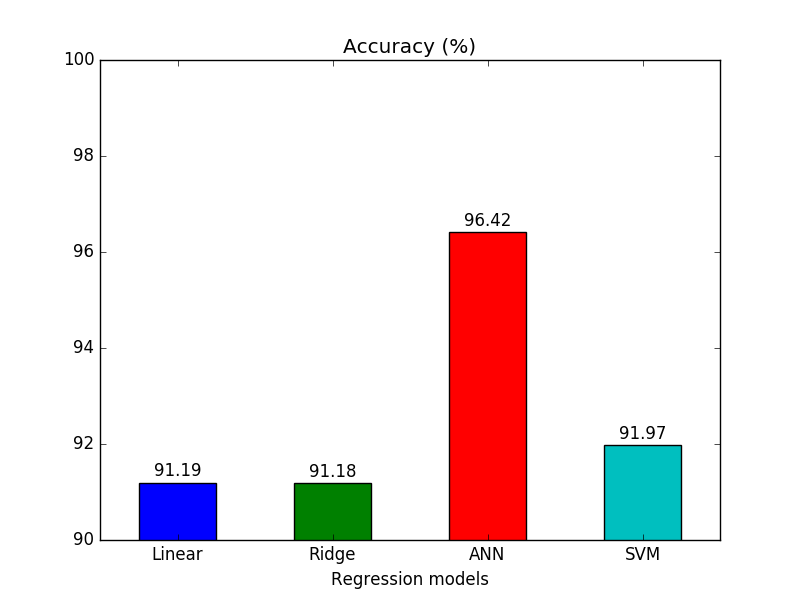
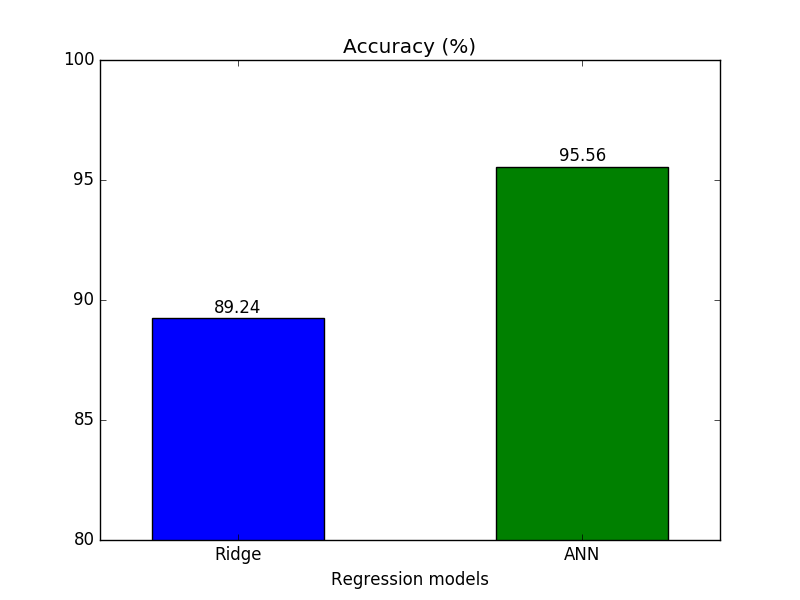
main.py: Add cross validation

diff --git a/main.py b/main.py
@@ -7,9 +7,12 @@ import pandas as pd
 from itertools import cycle
 from scipy.stats import spearmanr
 from sklearn.model_selection import train_test_split
-from sklearn import linear_model, svm
+from sklearn import linear_model
 from sklearn.neural_network import MLPRegressor
 from sklearn.preprocessing import StandardScaler
+from sklearn.model_selection import KFold
+from sklearn.model_selection import cross_val_score
+
 
 
 class Data(object):
@@ -17,8 +20,8 @@ class Data(object):
         Class for pre-processing data.
     """
     def __init__(self, filename="data.csv", cold=0):
-        self.label = ["Relative Compactness", "Surface Area", "Wall Area", "Roof Area",
-                      "Overall Height", "Orientation", "Glazing Area",
+        self.label = ["Rel Compactness", "Surface Area", "Wall Area", "Roof Area",
+                      "Overall Ht.", "Orientation", "Glazing Area",
                       "Glazing Area Distribution", "Heating Load", "Cooling Load"]
         self.data = pd.read_csv(filename)
         self.cold = cold
@@ -26,7 +29,7 @@ class Data(object):
         scaler = StandardScaler()
         self.X_train, self.X_test, self.y_train, self.y_test = train_test_split(X,
                                                                                 y,
-                                                                                test_size=0.2,
+                                                                                test_size=0.3,
                                                                                 random_state=0)
         scaler.fit(self.X_train)
         self.X_train = scaler.transform(self.X_train)
@@ -34,51 +37,82 @@ class Data(object):
     
     def get_sp_rank(self):
         """
-            Return Spearman rank correlation coefficient.
+            Return Spearman rank-order correlation coefficient and p-value
+            to test for non-correlation.
         """
         
         return [(spearmanr(self.data.ix[:, i:i+1], self.data.ix[:, 8:9]),
                  spearmanr(self.data.ix[:, i:i+1], self.data.ix[:, 9:10]))
                  for i in range(len(self.label)-2)]
+
+
+
+def cross_validator(func):
+    def inner_wrap(self, data):
+        est, est_cv = func()
+        X = data.ix[:,0:8].as_matrix()
+        y = data.ix[:,8:10].as_matrix()
+        alphas = np.logspace(-4, -0.5, 30)
+        scores = []
+        scores_std = []
+        n_folds = 5
+
+        for alpha in alphas:
+            est.alpha = alpha
+            this_scores = cross_val_score(est, X, y, cv=n_folds, n_jobs=1)
+            scores.append(np.mean(this_scores))
+            scores_std.append(np.std(this_scores))
+
+        scores, scores_std = np.array(scores), np.array(scores_std)
+
+        plt.figure().set_size_inches(8, 6)
+        plt.semilogx(alphas, scores)
+
+        std_error = scores_std / np.sqrt(n_folds)
+
+        plt.semilogx(alphas, scores + std_error, 'b--')
+        plt.semilogx(alphas, scores - std_error, 'b--')
+
+        plt.fill_between(alphas, scores + std_error, scores - std_error, alpha=0.2)
+
+        plt.ylabel('CV score +/- std error')
+        plt.xlabel('alpha')
+        plt.axhline(np.max(scores), linestyle='--', color='.5')
+        plt.xlim([alphas[0], alphas[-1]])
+
+        est_cv.alphas = alphas
+        est_cv.random_state = 0
+        k_fold = KFold(n_folds)
+
+        scores = []
+        for k, (train, test) in enumerate(k_fold.split(X, y)):
+            est_cv.fit(data.ix[train, 0:8].as_matrix(), data.ix[train, 8+self.cold: 9+self.cold].as_matrix())
+            scores.append(est_cv.score(data.ix[test, 0:8].as_matrix(),
+                                       data.ix[test, 8+self.cold: 9+self.cold].as_matrix()))
+
+        plt.show()
+        return np.mean(scores)*100
     
-    def __repr__(self):
-        pass
+    return inner_wrap
 
 
-class Linear(Data, object):
-    """
-        Linear regression model.
-    """
-    def __init__(self):
-        Data.__init__(self)
-        self.reg = linear_model.LinearRegression()
-        self.reg.fit(self.X_train, self.y_train[:,self.cold:self.cold+1].ravel())
-
-    @property
-    def params(self):
-        return self.reg.coef_
-
-    @property
-    def accuracy(self):
-        return self.reg.score(self.X_test, self.y_test[:,self.cold:self.cold+1].ravel())*100
-
-
-class Ridge(Data, object):
+class Ridge_M(Data, object):
     """
         Ridge regression model.
     """
     def __init__(self):
         Data.__init__(self)
-        self.reg = linear_model.RidgeCV(alphas=[0.1, 1.0, 10.0])
-        self.reg.fit(self.X_train, self.y_train[:,self.cold:self.cold+1].ravel())
-
-    @property
-    def params(self):
-        return self.reg.coef_, self.reg.alpha_
+    
+    @staticmethod
+    @cross_validator
+    def fit():
+        est = linear_model.Ridge()
+        est_cv = linear_model.RidgeCV()
+        return est, est_cv
 
     @property
     def accuracy(self):
-        return self.reg.score(self.X_test, self.y_test[:,self.cold:self.cold+1].ravel())*100
+        return Ridge_M.fit(self, self.data)
 
 
 class ANN(Data, object):
@@ -87,31 +121,13 @@ class ANN(Data, object):
         self.reg = MLPRegressor(solver='lbfgs', alpha=1e-5,
                                  hidden_layer_sizes=(5, 2), random_state=1)
         self.reg.fit(self.X_train, self.y_train[:,self.cold:self.cold+1].ravel())
-        
-
-    @property
-    def params(self):
-        return self.reg.coef_
 
     @property
     def accuracy(self):
         return self.reg.score(self.X_test, self.y_test[:,self.cold:self.cold+1].ravel())*100
 
 
-class SVRM(Data, object):
-    def __init__(self):
-        Data.__init__(self)
-        self.reg = svm.SVR(kernel='rbf')
-        self.reg.fit(self.X_train, self.y_train[:,self.cold:self.cold+1].ravel())
-
-    @property
-    def params(self):
-        return self.reg.coef_
-
-    @property
-    def accuracy(self):
-        return self.reg.score(self.X_test, self.y_test[:,self.cold:self.cold+1].ravel())*100
-
+# PLOT GRAPHS
 
 def plot_model_accuracy(models):
     X = range(len(models))
@@ -128,11 +144,14 @@ def plot_model_accuracy(models):
     plt.xticks(X, labels)
     plt.xlabel('Regression models')
     plt.title('Accuracy (%)')
-    plt.ylim(90,100)
+    plt.ylim(80,100)
     plt.show()
+
 
 def plot_feature_correlation(data):
     """
+        Scatter plot of X vs X and Y vs X.
+
         X1	Relative Compactness 
         X2	Surface Area 
         X3	Wall Area 
@@ -174,6 +193,7 @@ def plot_feature_correlation(data):
     
     plt.show()
 
+
 def plot_pd(data):
     """
         Plot probablility densities.
@@ -181,7 +201,6 @@ def plot_pd(data):
     cycol = cycle('bgrcmk').next
     nf = len(data.label)
 
-    # the histogram of the data
     for i in range(nf):
         plt.figure(i+1)
         pdf, bins, patches = plt.hist(data.data.ix[:, i:i+1].as_matrix(),
@@ -195,25 +214,28 @@ def plot_pd(data):
     plt.show()
 
 
+def plot_spearman(sp_result, data):
+    print [x[0].correlation for x in sp_result]
+    plt.bar(range(len(sp_result)), [x[0].correlation for x in sp_result], tick_label=data.label[:8], align="center")
+    plt.title("Spearman correlation coefficient")
+    plt.show()
+
 
 def main():
     data = Data(cold=1)
-    linear = Linear()
-    ridge = Ridge()
+    ridge = Ridge_M()
     ann = ANN()
-    svr = SVRM()
-    models = [("Linear", linear), ("Ridge", ridge),
-              ("ANN", ann), ("SVM", svr)]
+    models = [("Ridge", ridge), ("ANN", ann)]
     
     for model_name, model_obj in models: print model_name, model_obj.accuracy
+    sp_result = data.get_sp_rank()
     
     plot_feature_correlation(data)
     plot_model_accuracy(models)
     plot_pd(data)
-    print data.get_sp_rank()
+    plot_spearman(sp_result, data)
+    
     
 
 if __name__ == "__main__":
     main()
-                                                                                
-        
